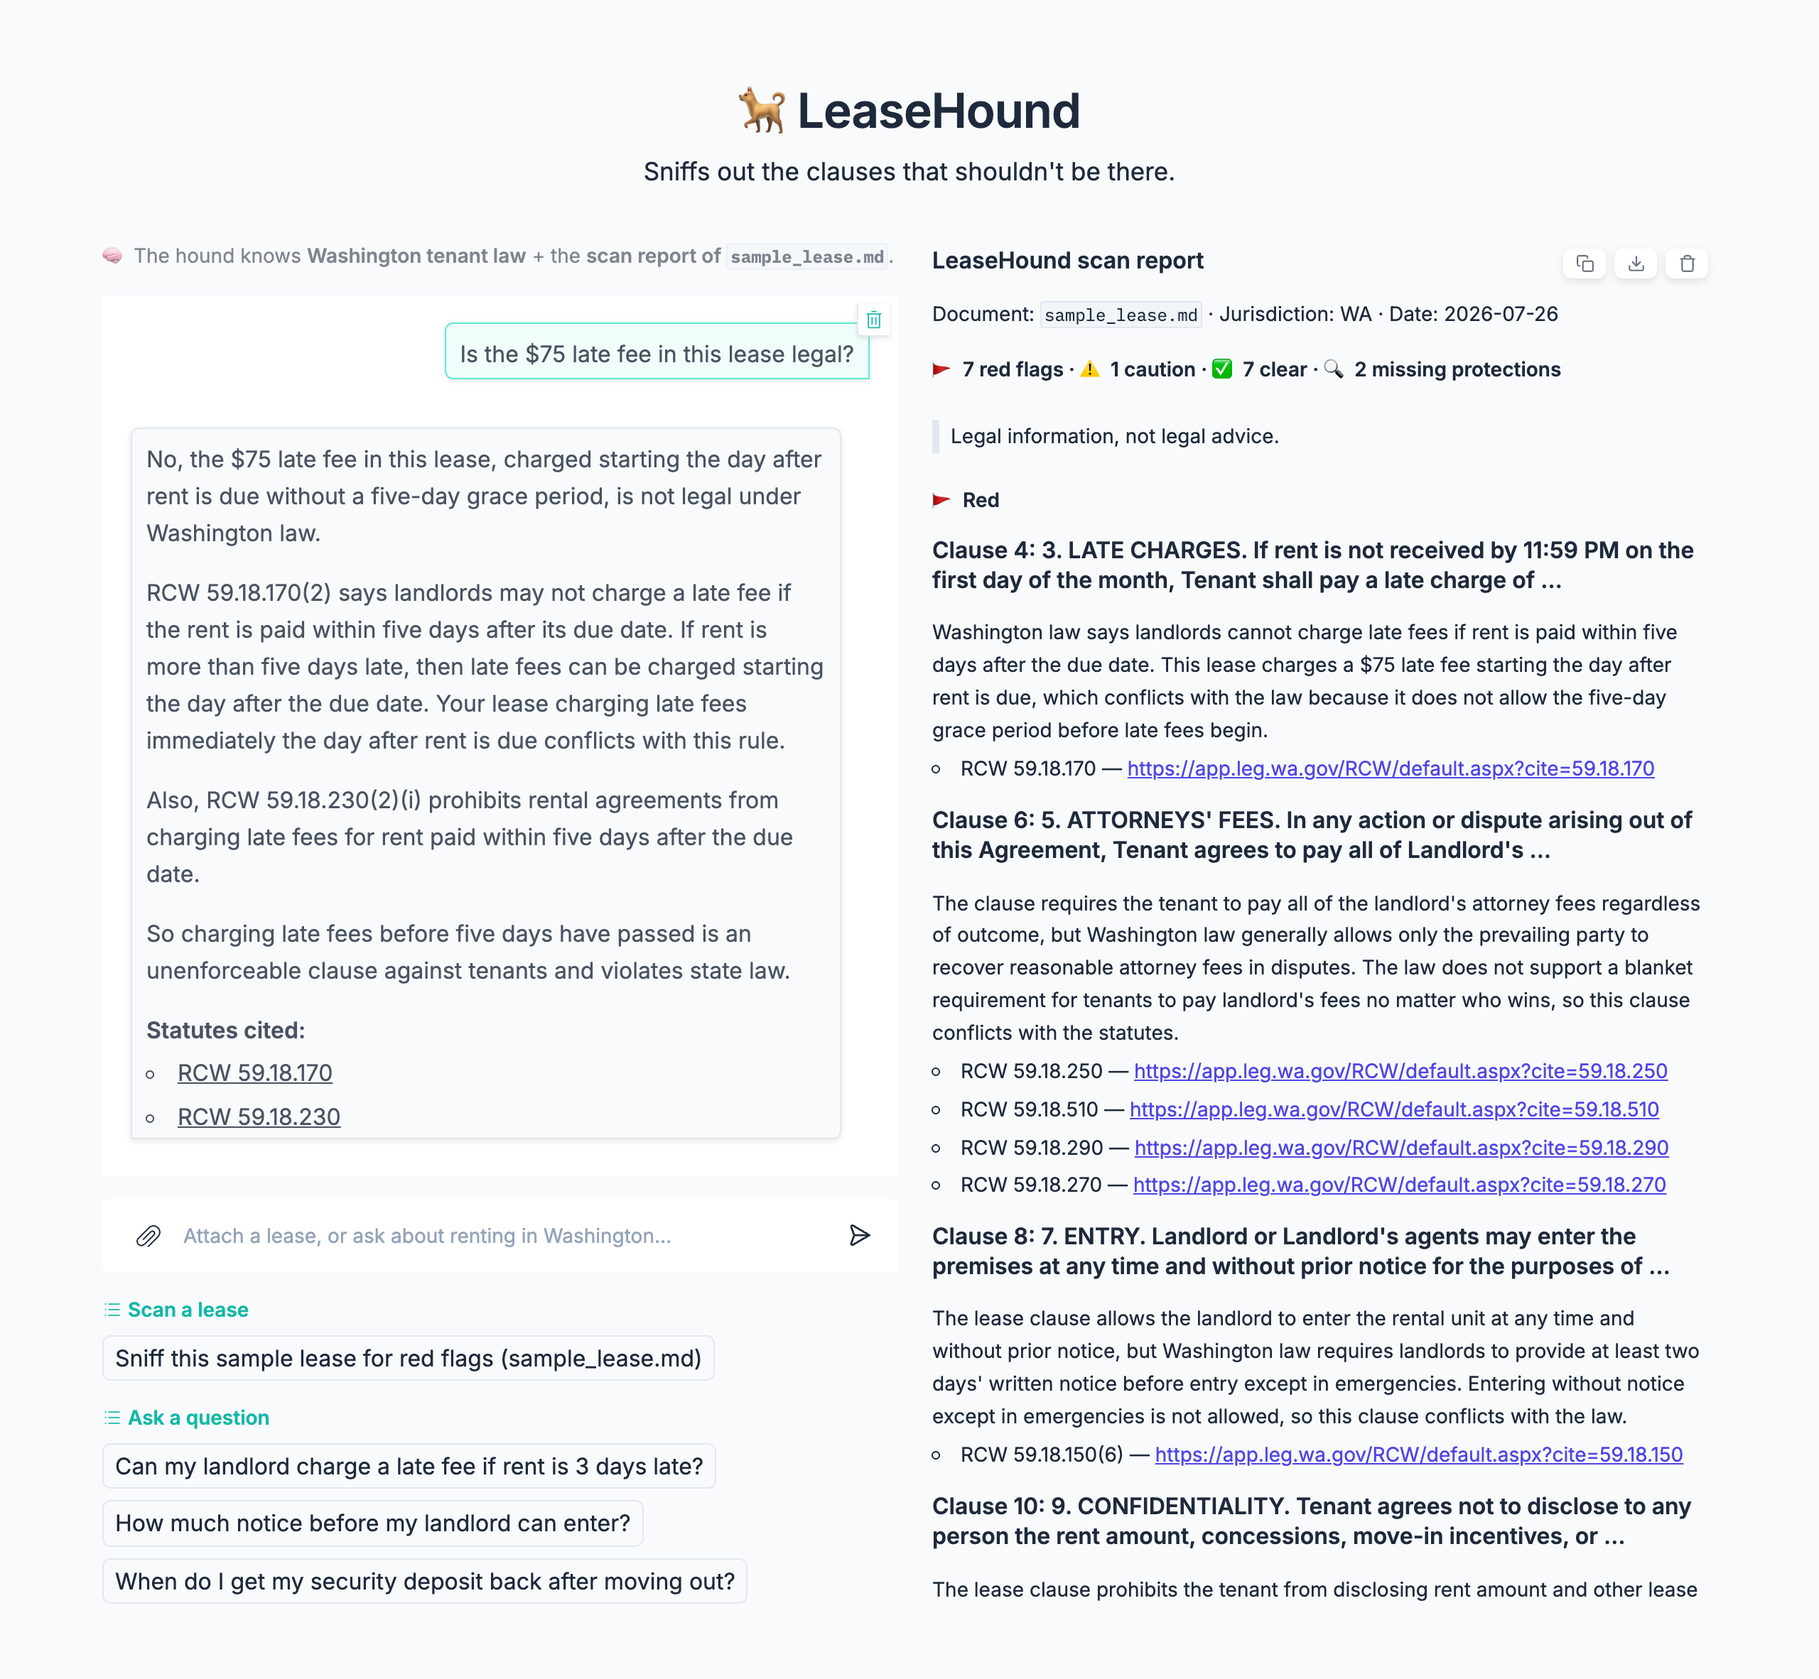
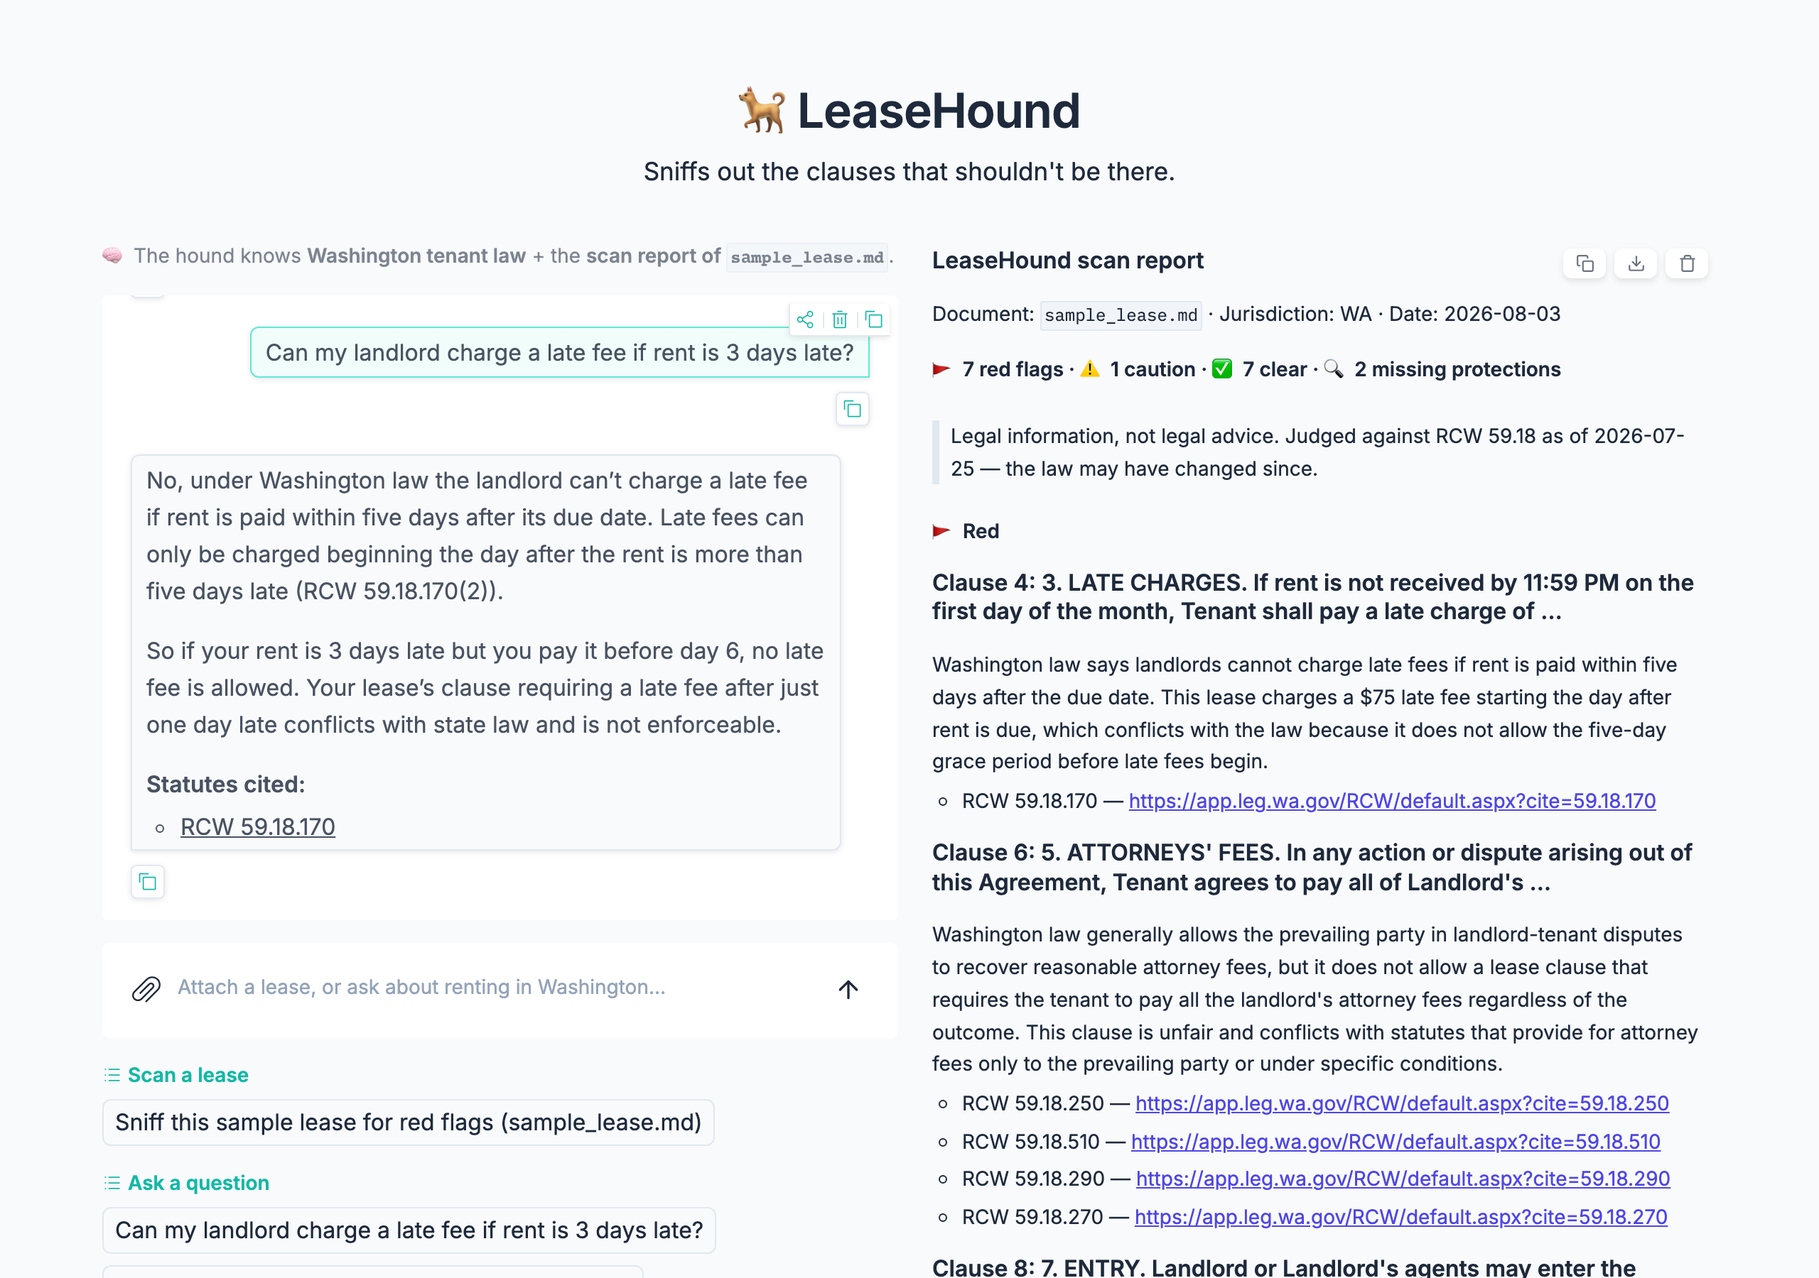
Regenerate the README assets, and find a collapsed composer doing it
The GIF and the screenshot were from 2026-07-26 and predated eight commits
to app.py, so the README's own illustration showed a product the text
beside it no longer described: no gate warning, no partial-scan notice, no
cache-hit message, no "across clauses 1-N of M". They went stale because
re-recording them was a manual chore nobody was going to repeat, which is
the failure this project keeps fixing elsewhere — an artifact that cannot
be regenerated will eventually be wrong. So scripts/record_demo.py drives
the real UI with Playwright and waits on the app's own strings rather than
on sleeps. Both assets come from one run, so they cannot disagree.

Recording them is what caught the real bug. The composer's input bar was
734px wide with a 237px input inside it: the placeholder wrapped onto two
lines and "Washington..." was clipped off the end. Cause is our own CSS.
The rule set align-items:center on .input-container, written when gradio 5
laid that container out as a ROW, where centering the cross axis centered
the icons and the textarea vertically. Gradio 6 makes it a COLUMN, so the
same declaration centers the cross axis horizontally and the wrapper
collapsed to its content. stretch fixes it: input 153px -> 650px, one
line, and mobile still fills its 285px with no overflow.

Nothing could have caught it. The tests render no CSS, and the screenshot
that would have shown it predated the upgrade that broke it -- 166 green
[…]

diff --git a/scripts/record_demo.py b/scripts/record_demo.py
@@ -1,0 +1,241 @@
+"""Re-record docs/demo.gif and docs/screenshot.png by driving the real UI.
+
+These two files are the first thing a visitor sees, and they had gone stale: they
+were recorded before the gate warning, the partial-scan notice, the cache-hit
+message and the "across clauses 1-N of M" coverage line existed, so the README's
+own illustration showed a product that no longer matched the text beside it. The
+reason they went stale is that re-recording them was a manual chore nobody was
+going to repeat, which is the same failure this project keeps fixing elsewhere:
+an artifact that cannot be regenerated will eventually be wrong.
+
+So they are generated, by driving the actual app with Playwright and waiting on
+the app's own strings rather than on sleeps. Frames come from the same run, so
+the GIF and the still cannot disagree with each other.
+
+Playwright is a DEV-ONLY tool and is deliberately absent from pyproject and
+requirements-lock.txt — nothing that ships needs a browser. Install it just for
+this:
+
+    .venv/bin/python -m pip install playwright && .venv/bin/playwright install chromium
+
+Then, with the app running (`python -m leasehound.app`):
+
+    python -m scripts.record_demo              # both assets, one live scan
+    python -m scripts.record_demo --still-only # just the screenshot
+
+One live scan and one question, so a full recording costs about $0.018. The scan
+cache is keyed by document content, so a second recording against the same server
+takes the cache-hit path and the GIF has no clause-by-clause progress in it at
+all. That is a silent failure — the recording succeeds and the asset is wrong — so
+this refuses to write a GIF it caught on the cached path, and says to restart.
+"""
+
+import argparse
+import io
+import time
+from pathlib import Path
+
+from PIL import Image
+
+DOCS = Path(__file__).parent.parent / "docs"
+GIF_PATH = DOCS / "demo.gif"
+STILL_PATH = DOCS / "screenshot.png"
+
+DEFAULT_URL = "http://127.0.0.1:7860"
+
+# The question the README's caption promises the screenshot shows. Kept here so
+# the caption and the image cannot drift apart silently.
+STILL_QUESTION = "Can my landlord charge a late fee if rent is 3 days late?"
+
+# Strings the app itself emits. Waiting on these rather than on sleeps is what
+# makes the recording deterministic: a slow provider makes it take longer, not
+# capture the wrong moment.
+ANSWER_DONE_MARK = "Statutes cited"
+SAMPLE_CHIP = "Sniff this sample lease for red flags"
+# Emitted when the content hash already has a report: a recording that sees this
+# has no live scan in it, so the GIF would be a still of a finished panel.
+CACHE_HIT_MARK = "Already sniffed"
+CACHED_SNIFF_MARK = "saved report"
+
+# 1280 wide is the layout's design width; 900 tall rather than 800 so the report
+# panel's verdict summary and the answer fit in one frame without scrolling.
+# Captured at 2x so the still survives GitHub's scaling, and the GIF downscales from
+# those same frames, which is why it looks better than a 1x capture would.
+VIEWPORT = {"width": 1280, "height": 900}
+GIF_WIDTH = 900
+GIF_COLORS = 128
+# Frames are captured as fast as a 2x screenshot allows and each one is stamped, so
+# playback follows the real gaps between them rather than a made-up frame rate. Long
+# pauses are clamped, and PIL merges runs of identical frames into one longer frame,
+# so the result is a little shorter than the wall clock (last run: 10.5s of playback
+# for 15.1s of recording) — paced by the real thing, not equal to it.
+GIF_MIN_MS, GIF_MAX_MS = 60, 1000
+# A recording that never ends is worse than a missing asset — it hangs CI-less
+# local runs with no clue why. Each phase is bounded.
+PHASE_TIMEOUT_S = 180
+
+
+def chat_text(page) -> str:
+    """Everything currently in the chat column, as plain text."""
+    return page.locator(".chat-col").inner_text()
+
+
+def wait_until(page, done, what: str, frames: list | None = None,
+               timeout_s: int = PHASE_TIMEOUT_S) -> None:
+    """Poll until `done()`, collecting stamped frames while waiting.
+
+    Deliberately not page.wait_for_selector: what is being waited on is a message
+    the app streams into a chat log, and the frames have to be captured *during*
+    the wait or the GIF has nothing in it to show.
+    """
+    deadline = time.time() + timeout_s
+    while time.time() < deadline:
+        if frames is not None:
+            frames.append((time.time(), page.screenshot(type="png")))
+        else:
+            page.wait_for_timeout(200)
+        if done():
+            if frames is not None:
+                frames.append((time.time(), page.screenshot(type="png")))
+            return
+    raise TimeoutError(f"waited {timeout_s}s and {what} never happened")
+
+
+def panel_pinned(page):
+    # .first because the class lands on both gradio's block wrapper and the markdown
+    # body inside it, and a bare locator is a strict-mode violation on two matches.
+    panel = page.locator(".report-col .report-panel").first
+    return lambda: panel.is_visible() and bool(panel.inner_text().strip())
+
+
+def show_question_with_answer(page, question: str) -> None:
+    """Scroll the chat log so the question sits with the answer it produced.
+
+    The log auto-scrolls to the newest token, which pushes the question off the top
+    — and a screenshot of an answer to an invisible question illustrates nothing.
+    This is the second time that has had to be fixed; the first was by hand.
+    """
+    page.evaluate(
+        """(text) => {
+            const bubbles = [...document.querySelectorAll('.chat-col .message, .chat-col .bubble-wrap p')];
+            const asked = bubbles.reverse().find(el => el.innerText.trim().startsWith(text.slice(0, 40)));
+            if (asked) asked.scrollIntoView({block: 'start'});
+            window.scrollTo(0, 0);
+        }""",
+        question,
+    )
+    page.wait_for_timeout(700)
+
+
+def ask(page, question: str) -> None:
+    box = page.get_by_placeholder("Attach a lease, or ask about renting")
+    box.click()
+    box.fill(question)
+    box.press("Enter")
+
+
+def write_gif(frames: list[tuple[float, bytes]], path: Path) -> None:
+    """Assemble stamped PNG frames into an animated GIF at true speed.
+
+    Downscaled and palettised because the honest constraint here is GitHub's: a
+    README that takes ten seconds to show its own demo has not demonstrated
+    anything.
+    """
+    images = []
+    for _, raw in frames:
+        frame = Image.open(io.BytesIO(raw)).convert("RGB")
+        frame = frame.resize(
+            (GIF_WIDTH, round(frame.height * GIF_WIDTH / frame.width)), Image.LANCZOS)
+        images.append(frame.quantize(colors=GIF_COLORS, method=Image.MEDIANCUT))
+
+    stamps = [stamp for stamp, _ in frames]
+    durations = [
+        min(GIF_MAX_MS, max(GIF_MIN_MS, round((b - a) * 1000)))
+        for a, b in zip(stamps, stamps[1:])
+    ]
+    # The last frame is the payoff — the finished report beside the cited answer — so
+    # it holds, rather than looping straight back to an empty page.
+    durations.append(2500)
+    images[0].save(path, save_all=True, append_images=images[1:],
+                   duration=durations, loop=0, optimize=True, disposal=2)
+    print(f"  (recording spans {stamps[-1] - stamps[0]:.1f}s of real time)")
+
+
+def record(url: str, still_only: bool) -> None:
+    from playwright.sync_api import sync_playwright
+
+    with sync_playwright() as playwright:
+        browser = playwright.chromium.launch()
+        context = browser.new_context(viewport=VIEWPORT, device_scale_factor=2)
+        page = context.new_page()
+        # Not networkidle: Gradio holds a heartbeat connection open for the life of
+        # the session, so the network is never idle and the wait times out. Wait for
+        # the thing that actually has to be there instead — the example chip, which
+        # arrives via demo.load and is therefore the real signal that the UI is up.
+        page.goto(url, wait_until="load")
+
+        frames: list[tuple[float, bytes]] | None = None if still_only else []
+
+        chip = page.get_by_text(SAMPLE_CHIP, exact=False).first
+        chip.wait_for(state="visible", timeout=PHASE_TIMEOUT_S * 1000)
+        print(f"clicking {SAMPLE_CHIP!r}…")
+        chip.click()
+        # The report PANEL appearing, not a chat message: the fresh path ends with a
+        # "Full report on the right" summary and the cached path does not, so keying
+        # on that string worked exactly once and then hung for three minutes.
+        wait_until(page, panel_pinned(page), "a report was pinned", frames)
+        print("  scan finished")
+
+        transcript = chat_text(page)
+        if CACHE_HIT_MARK in transcript or CACHED_SNIFF_MARK in transcript:
+            if frames is not None:
+                browser.close()
+                raise SystemExit(
+                    "This server already has the sample lease cached, so the scan "
+                    "returned instantly and there is no clause-by-clause progress to "
+                    "record. Restart `python -m leasehound.app` and run this again "
+                    "(or pass --still-only, which does not need the live progress)."
+                )
+            print("  (cache hit — fine for the still, which shows the finished state)")
+
+        print(f"asking: {STILL_QUESTION}")
+        ask(page, STILL_QUESTION)
+        wait_until(page, lambda: ANSWER_DONE_MARK in chat_text(page),
+                   "the answer finished", frames)
+        print("  answer finished")
+
+        # Settle: the sources footer is appended in a final yield after the last
+        # token, and screenshotting mid-yield catches the answer without it.
+        page.wait_for_timeout(1200)
+
+        # Streaming the answer scrolls the PAGE down, which cropped the wordmark and
+        # the report's verdict summary out of the first version of this still; and the
+        # chat log auto-scrolls past the question, which cropped that out of the
+        # version before it. Both have to be put back.
+        show_question_with_answer(page, STILL_QUESTION)
+        if frames is not None:
+            frames.append((time.time(), page.screenshot(type="png")))
+
+        DOCS.mkdir(exist_ok=True)
+        page.screenshot(path=str(STILL_PATH))
+        print(f"  {STILL_PATH.relative_to(DOCS.parent)} "
+              f"({STILL_PATH.stat().st_size / 1024:.0f} KB)")
+
+        if frames:
+            write_gif(frames, GIF_PATH)
+            print(f"  {GIF_PATH.relative_to(DOCS.parent)} "
+                  f"({GIF_PATH.stat().st_size / 1024 / 1024:.1f} MB, {len(frames)} frames)")
+        browser.close()
+
+
+def main() -> None:
+    parser = argparse.ArgumentParser()
+    parser.add_argument("--url", default=DEFAULT_URL, help="a running leasehound.app")
+    parser.add_argument("--still-only", action="store_true",
+                        help="skip the GIF (still needs one live scan)")
+    args = parser.parse_args()
+    record(args.url, args.still_only)
+
+
+if __name__ == "__main__":
+    main()

diff --git a/leasehound/app.py b/leasehound/app.py
@@ -106,7 +106,16 @@ CSS = """
 @media (max-width: 900px) {
   .report-panel {max-height: 65vh; overflow-y: auto; padding: 0 4px;}
 }
-.chat-col .multimodal-textbox .input-container {align-items: center !important;}
+/* STRETCH, not center. This rule said `center` and was written when gradio 5 laid
+   the container out as a ROW, where centering the cross axis meant centering the
+   icons and the textarea vertically. Gradio 6 makes the container a COLUMN, so the
+   same declaration centers the cross axis HORIZONTALLY: the input wrapper collapsed
+   to its content and the composer went from 734px wide to 237px, wrapping the
+   placeholder onto two lines and clipping "Washington…" off the end. Nothing caught
+   it — the tests render no CSS, and the README screenshot that would have shown it
+   predated the upgrade. The vertical centering it used to do is now the textarea's
+   own align-content, below. */
+.chat-col .multimodal-textbox .input-container {align-items: stretch !important;}
 .chat-col .multimodal-textbox textarea {align-content: center;}
 /* Attached-file chip: gradio's 48px thumbnail dwarfs the 30px attach/send
    icons beside it. Direct-child only, so the delete ✕ keeps its own size. */

diff --git a/README.md b/README.md
@@ -208,6 +208,14 @@ pytest          # 166 unit tests: clause splitting across seven real numbering c
 ruff check leasehound evaluation scripts tests
 ```
 
+The tests render no CSS, which is a real gap and not a theoretical one: the gradio 6 upgrade flipped the composer's flex container from a row to a column, so a rule of ours that had been centering it vertically started collapsing it *horizontally* — 734 px of input bar down to 237, the placeholder wrapped onto two lines with "Washington…" clipped off the end. 166 green tests and a stale screenshot between them said nothing. Re-recording the README's assets is what surfaced it, which is the argument for `scripts/record_demo.py` existing at all. It needs a browser, dev-only and deliberately absent from `pyproject` and `requirements-lock.txt` — nothing that ships needs one:
+
+```bash
+pip install playwright && playwright install chromium
+python -m leasehound.app &                 # a cold cache, so the GIF has a live scan in it
+python -m scripts.record_demo              # ≈ $0.018: one scan, one question
+```
+
 CI (GitHub Actions) runs both on every push, plus a third job that **builds the container and boots it**. That job exists because the deployed artifact was the least-tested thing here: the test job installs `pyproject`'s version ranges and is the canary for upstream drift, while the image installs the pinned `requirements-lock.txt` it actually ships and proves those pins still resolve and import together. It builds against a placeholder store — the real one isn't in git, and re-embedding the corpus per commit would spend money re-proving something no commit changes. That job also **audits `requirements-lock.txt` with `pip-audit`**, because a lockfile with no audit step is a promise to keep shipping a fixed set of versions including their known holes; it found 44 advisories the first time it ran. Tests themselves cover the deterministic core only: no API calls, no vector DB.
 
 Deploying is two steps, because the image ships a different store than development uses:
@@ -217,7 +225,7 @@ python -m scripts.export_runtime_db     # vector_db/ → vector_db_runtime/, one
 docker build -t leasehound .            # see "What the image ships" above
 ```
 
-The experiment write-ups live in [`evaluation/README.md`](evaluation/README.md) next to the artifacts they describe; `scripts/` holds the one-off measurement tools (`measure_concurrency.py`, `measure_ask_cost.py`, `probe_router.py`, `build_enumerated_collection.py`, `check_corpus_drift.py`), each of which prints what it costs before it costs it, plus the two deployment tools above (`export_runtime_db.py`, `image_smoke_test.py`).
+The experiment write-ups live in [`evaluation/README.md`](evaluation/README.md) next to the artifacts they describe; `scripts/` holds the one-off measurement tools (`measure_concurrency.py`, `measure_ask_cost.py`, `probe_router.py`, `build_enumerated_collection.py`, `check_corpus_drift.py`), each of which prints what it costs before it costs it, plus `record_demo.py`, which regenerates the GIF and screenshot above by driving the real UI (they had gone stale, and a hand-made asset gets stale again), plus the two deployment tools above (`export_runtime_db.py`, `image_smoke_test.py`).
 
 Two more workflows sit alongside it. `corpus.yml` watches the statute snapshot for drift — free, no secret, [described above](#keeping-the-snapshot-honest). `eval.yml` runs the paid evaluations: the gold-set scan eval, the ask-mode retrieval eval, and the scan-mode retrieval eval — that last one first, since at ~$0.0002 it says whether a regression is retrieval or judgment before anything expensive runs — on every push to `main` that touches pipeline code (≈ $0.15/run — path-filtered so docs commits cost nothing), with the pricier generation eval and the 40-lease synthetic set on manual dispatch. Scores land in the job summary as a report, not a gate: temperature-0 API calls still drift a flag's worth between runs, and a hard threshold would flake. Forks never see the API key (main-only triggers), and the workflow skips gracefully when the secret isn't configured.
 
